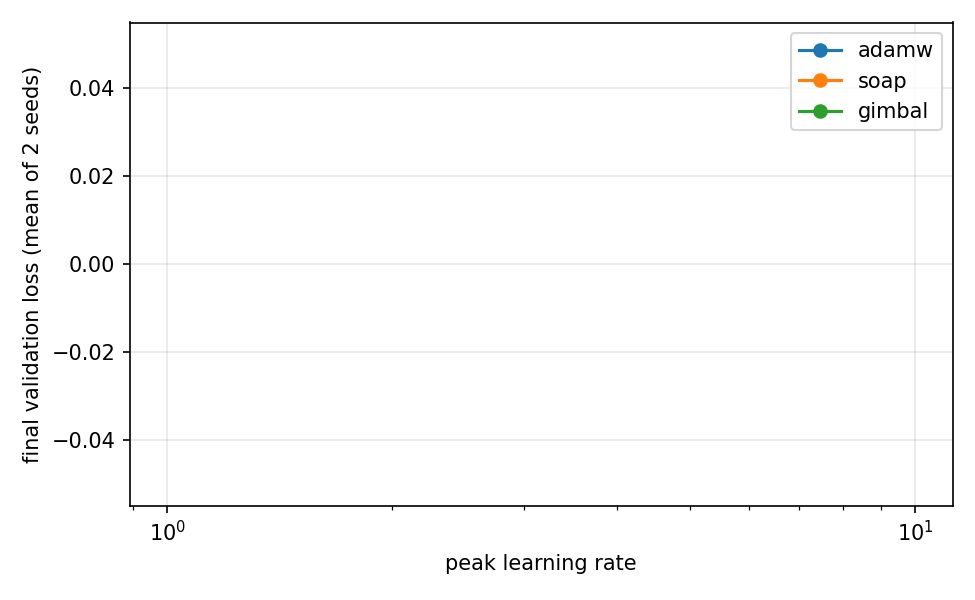
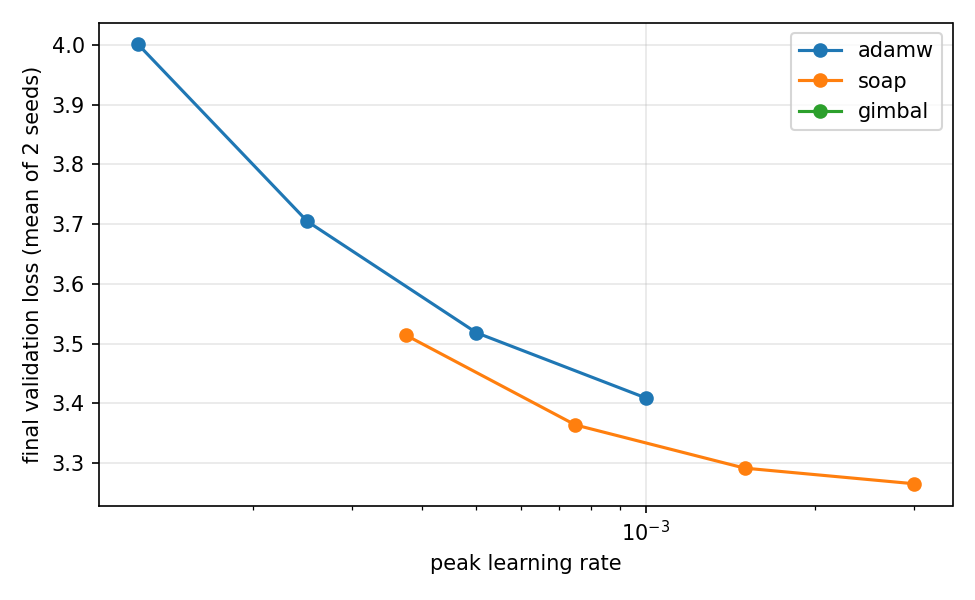
Tuning report lists Gimbal's pre-repair trials and each trial's code commit; status and research state after F-032/C-019

diff --git a/analysis/tuning_report.py b/analysis/tuning_report.py
@@ -32,13 +32,14 @@ OPTS = ("adamw", "soap", "gimbal")
 KNOB = {"adamw": ("b2", 0.95), "soap": ("shampoo_beta", 0.95), "gimbal": ("rot_rate", 0.05)}
 
 
-def trials() -> list[dict]:
+def trials(runs: pathlib.Path = RUNS) -> list[dict]:
     rows = []
-    for d in sorted(RUNS.iterdir()):
+    for d in sorted(runs.iterdir()):
         m = NAME.match(d.name)
         if not m or not (d / "final.json").exists():
             continue
         fin = json.loads((d / "final.json").read_text())
+        meta = json.loads((d / "config.json").read_text()) if (d / "config.json").exists() else {}
         opt, lr, key, val, seed = m.groups()
         rows.append(
             {
@@ -52,6 +53,7 @@ def trials() -> list[dict]:
                 "diverged": bool(fin.get("diverged")),
                 "val_loss": fin.get("val_loss"),
                 "seconds": fin.get("train_seconds"),
+                "commit": meta.get("git", "")[:7],
             }
         )
     return rows
@@ -59,9 +61,12 @@ def trials() -> list[dict]:
 
 def main() -> None:
     rows = trials()
+    pre = trials(RUNS / "pre_c019") if (RUNS / "pre_c019").exists() else []
     sel_path, snap_path = RUNS / "selection.json", RUNS / "SNAPSHOT"
     sel = json.loads(sel_path.read_text()) if sel_path.exists() else {}
     snap = snap_path.read_text().strip() if snap_path.exists() else "?"
+    snap_commit = pathlib.Path(snap) / "SNAPSHOT_COMMIT"
+    last = snap_commit.read_text().strip()[:7] if snap_commit.exists() else "?"
     lines = [
         "# Phase 06 tuning (generated by `analysis/tuning_report.py`)",
         "",
@@ -69,7 +74,11 @@ def main() -> None:
         "seeds 0 and 1, selection on the mean final loss over the full 20M-token "
         "validation split; Stage A learning-rate grid (7 points, factor 2, edge "
         "extensions offered to every optimizer), Stage C one secondary knob (3 values). "
-        f"Driver `scripts/tpu/tune.py`, one frozen code snapshot (`{snap}`).",
+        "Driver `scripts/tpu/tune.py`; frozen code snapshots: the trials before the F-032 "
+        "diagnosis ran from commit "
+        + ", ".join(sorted({x["commit"] for x in rows + pre if x["commit"] != last}))
+        + f", the later ones from `{snap}` (commit {last}); AdamW and SOAP code is identical in "
+        "both (formatting and docstrings only, checked on the syntax trees).",
         "",
         "## Budget (G6.1)",
         "",
@@ -148,13 +157,30 @@ def main() -> None:
             + ", ".join(f"{k}: {'edge' if v else 'interior'}" for k, v in knob_edge.items())
             + ".",
         ]
+    if pre:
+        lines += [
+            "",
+            "## Gimbal before C-019 (F-032; not used for selection)",
+            "",
+            "Gimbal's first trials ran with Adam's momentum beta_1 = 0.9 while SOAP had its "
+            "official 0.95; at learning rates >= 1.5e-3 they were unstable around the end of the "
+            "warm-up. After the diagnosis (F-032, `runs/diag/`) the 125M study uses SOAP's "
+            "beta_1 = 0.95 for Gimbal (C-019) and Gimbal was re-tuned with the full budget. "
+            "Mean final validation loss by learning rate (two seeds): "
+            + "; ".join(
+                f"{lr:.4g}: {np.mean([x['val_loss'] for x in pre if x['lr'] == lr]):.4f}"
+                for lr in sorted({x["lr"] for x in pre})
+                if sum(x["lr"] == lr for x in pre) == 2
+            )
+            + ".",
+        ]
     lines += [
         "",
         "## All trials",
         "",
         "| run | stage | optimizer | lr | knob | seed | final validation loss | diverged | "
-        "train seconds |",
-        "|---|---|---|---|---|---|---|---|---|",
+        "train seconds | commit |",
+        "|---|---|---|---|---|---|---|---|---|---|",
     ]
     for x in sorted(
         rows, key=lambda r: (r["optimizer"], r["stage"], r["lr"], r["value"], r["seed"])
@@ -163,7 +189,13 @@ def main() -> None:
         lines.append(
             f"| {x['run']} | {x['stage']} | {x['optimizer']} | {x['lr']:.4g} | "
             f"{x['knob']}={x['value']} | {x['seed']} | {vl} | {x['diverged']} | "
-            f"{x['seconds']:.0f} |"
+            f"{x['seconds']:.0f} | {x['commit']} |"
+        )
+    for x in sorted(pre, key=lambda r: (r["lr"], r["seed"])):
+        lines.append(
+            f"| pre_c019/{x['run']} | A (before C-019) | gimbal | {x['lr']:.4g} | beta_1=0.9 | "
+            f"{x['seed']} | {x['val_loss']:.4f} | {x['diverged']} | {x['seconds']:.0f} | "
+            f"{x['commit']} |"
         )
     OUT.write_text("\n".join(lines) + "\n")
     print("\n".join(lines[:40]))

diff --git a/research/ledger/tuning.md b/research/ledger/tuning.md
@@ -1,19 +1,19 @@
 # Phase 06 tuning (generated by `analysis/tuning_report.py`)
 
-Protocol after D-003: 125M model, 2,500 steps of 240 × 1024 tokens (614M tokens), seeds 0 and 1, selection on the mean final loss over the full 20M-token validation split; Stage A learning-rate grid (7 points, factor 2, edge extensions offered to every optimizer), Stage C one secondary knob (3 values). Driver `scripts/tpu/tune.py`, one frozen code snapshot (`/home/tasma/gimbal_snapshots/tuning`).
+Protocol after D-003: 125M model, 2,500 steps of 240 × 1024 tokens (614M tokens), seeds 0 and 1, selection on the mean final loss over the full 20M-token validation split; Stage A learning-rate grid (7 points, factor 2, edge extensions offered to every optimizer), Stage C one secondary knob (3 values). Driver `scripts/tpu/tune.py`; frozen code snapshots: the trials before the F-032 diagnosis ran from commit 5741a82, the later ones from `/home/tasma/gimbal_snapshots/tuning_c019` (commit 31b1833); AdamW and SOAP code is identical in both (formatting and docstrings only, checked on the syntax trees).
 
 ## Budget (G6.1)
 
 | optimizer | Stage A runs | Stage C runs | total | diverged | TPU hours (16 chips) |
 |---|---|---|---|---|---|
-| adamw | 1 | 0 | 1 | 0 | 0.13 h × 16 chips |
-| soap | 0 | 0 | 0 | 0 | 0.00 h × 16 chips |
+| adamw | 8 | 0 | 8 | 0 | 0.96 h × 16 chips |
+| soap | 8 | 0 | 8 | 0 | 1.16 h × 16 chips |
 | gimbal | 0 | 0 | 0 | 0 | 0.00 h × 16 chips |
 
 ## Stage A: mean final validation loss by learning rate (two seeds)
 
-* **adamw**: 0.000125: 3.9960 (1/2 seeds)
-* **soap**: 
+* **adamw**: 0.000125: 4.0009; 0.00025: 3.7047; 0.0005: 3.5183; 0.001: 3.4093
+* **soap**: 0.000375: 3.5138; 0.00075: 3.3639; 0.0015: 3.2916; 0.003: 3.2655
 * **gimbal**: 
 
 Figure: `analysis/results/tuning_lr_curves.png`.
@@ -24,8 +24,35 @@ Figure: `analysis/results/tuning_lr_curves.png`.
 * soap: pending
 * gimbal: pending
 
+## Gimbal before C-019 (F-032; not used for selection)
+
+Gimbal's first trials ran with Adam's momentum beta_1 = 0.9 while SOAP had its official 0.95; at learning rates >= 1.5e-3 they were unstable around the end of the warm-up. After the diagnosis (F-032, `runs/diag/`) the 125M study uses SOAP's beta_1 = 0.95 for Gimbal (C-019) and Gimbal was re-tuned with the full budget. Mean final validation loss by learning rate (two seeds): 0.000375: 3.5089; 0.00075: 3.3801; 0.0015: 3.3219; 0.003: 3.2913.
+
 ## All trials
 
-| run | stage | optimizer | lr | knob | seed | final validation loss | diverged | train seconds |
-|---|---|---|---|---|---|---|---|---|
-| adamw_lr0.000125_s0 | A | adamw | 0.000125 | b2=0.95 | 0 | 3.9960 | False | 467 |
+| run | stage | optimizer | lr | knob | seed | final validation loss | diverged | train seconds | commit |
+|---|---|---|---|---|---|---|---|---|---|
+| adamw_lr0.000125_s0 | A | adamw | 0.000125 | b2=0.95 | 0 | 3.9960 | False | 467 | 5741a82 |
+| adamw_lr0.000125_s1 | A | adamw | 0.000125 | b2=0.95 | 1 | 4.0058 | False | 467 | 5741a82 |
+| adamw_lr0.00025_s0 | A | adamw | 0.00025 | b2=0.95 | 0 | 3.7018 | False | 420 | 5741a82 |
+| adamw_lr0.00025_s1 | A | adamw | 0.00025 | b2=0.95 | 1 | 3.7076 | False | 420 | 5741a82 |
+| adamw_lr0.0005_s0 | A | adamw | 0.0005 | b2=0.95 | 0 | 3.5140 | False | 420 | 5741a82 |
+| adamw_lr0.0005_s1 | A | adamw | 0.0005 | b2=0.95 | 1 | 3.5225 | False | 422 | 5741a82 |
+| adamw_lr0.001_s0 | A | adamw | 0.001 | b2=0.95 | 0 | 3.4041 | False | 421 | 5741a82 |
+| adamw_lr0.001_s1 | A | adamw | 0.001 | b2=0.95 | 1 | 3.4144 | False | 422 | 5741a82 |
+| soap_lr0.000375_s0 | A | soap | 0.000375 | shampoo_beta=0.95 | 0 | 3.5110 | False | 701 | 5741a82 |
+| soap_lr0.000375_s1 | A | soap | 0.000375 | shampoo_beta=0.95 | 1 | 3.5167 | False | 688 | 5741a82 |
+| soap_lr0.00075_s0 | A | soap | 0.00075 | shampoo_beta=0.95 | 0 | 3.3626 | False | 461 | 5741a82 |
+| soap_lr0.00075_s1 | A | soap | 0.00075 | shampoo_beta=0.95 | 1 | 3.3653 | False | 462 | 5741a82 |
+| soap_lr0.0015_s0 | A | soap | 0.0015 | shampoo_beta=0.95 | 0 | 3.2925 | False | 461 | 5741a82 |
+| soap_lr0.0015_s1 | A | soap | 0.0015 | shampoo_beta=0.95 | 1 | 3.2907 | False | 463 | 5741a82 |
+| soap_lr0.003_s0 | A | soap | 0.003 | shampoo_beta=0.95 | 0 | 3.2641 | False | 463 | 5741a82 |
+| soap_lr0.003_s1 | A | soap | 0.003 | shampoo_beta=0.95 | 1 | 3.2669 | False | 462 | 5741a82 |
+| pre_c019/gimbal_lr0.000375_s0 | A (before C-019) | gimbal | 0.000375 | beta_1=0.9 | 0 | 3.5049 | False | 962 | 5741a82 |
+| pre_c019/gimbal_lr0.000375_s1 | A (before C-019) | gimbal | 0.000375 | beta_1=0.9 | 1 | 3.5129 | False | 503 | 5741a82 |
+| pre_c019/gimbal_lr0.00075_s0 | A (before C-019) | gimbal | 0.00075 | beta_1=0.9 | 0 | 3.3806 | False | 502 | 5741a82 |
+| pre_c019/gimbal_lr0.00075_s1 | A (before C-019) | gimbal | 0.00075 | beta_1=0.9 | 1 | 3.3797 | False | 504 | 5741a82 |
+| pre_c019/gimbal_lr0.0015_s0 | A (before C-019) | gimbal | 0.0015 | beta_1=0.9 | 0 | 3.3230 | False | 494 | 5741a82 |
+| pre_c019/gimbal_lr0.0015_s1 | A (before C-019) | gimbal | 0.0015 | beta_1=0.9 | 1 | 3.3209 | False | 503 | 5741a82 |
+| pre_c019/gimbal_lr0.003_s0 | A (before C-019) | gimbal | 0.003 | beta_1=0.9 | 0 | 3.2929 | False | 503 | 5741a82 |
+| pre_c019/gimbal_lr0.003_s1 | A (before C-019) | gimbal | 0.003 | beta_1=0.9 | 1 | 3.2897 | False | 503 | 5741a82 |

diff --git a/phases/STATUS.md b/phases/STATUS.md
@@ -7,7 +7,7 @@
 | 03 Reference implementations | **failed on G3.4 (premise), other gates pass** | 2026-10-06 | see git log ("Phase 03", "C-018") | G3.1 all tests pass (64 CPU, 16 TPU float32 + 13 CPU-only skipped); G3.2 `docs/optimizers.md`; G3.3 E2.5 reproduced in JAX within 0.1 seed SD (`experiments/phase3/results/e25_jax_gate.json`); G3.4 **fails**: median κ = 0.005 < 0.05 on real small-LM gradients, while the likelihood frame beats SOAP's pooled frame on held-out gradients in 48/48 matrices (`e26_report.md`, F-030); G3.5 passes after C-018 on fresh seeds 20–22 (lower than SOAP and AdamW on every seed, `g35_c018.md`); H1's kill criterion met at small scale (KL-SOAP better, SOAP real-time equal within noise) — D-006 | F-024–F-027, F-030 (premise, claim revised) |
 | 04 TPU kernels and distribution | **failed on G4.2 (documented wall-clock result), other gates pass** | 2026-10-06 | see git log ("Phases 04-05") | G4.1 JAX tests on the TPU (`benchmarks/tpu/results/tests_tpu.txt`); G4.2 **fails**: Gimbal 170.2 ms vs SOAP 167.0 ms steady state (+1.9%, C-017; `step_times.json`) after the repair order of the phase file (batching, amortization; lower-precision rotations cannot close it); G4.3 within 2× of the FLOP model for SOAP and Gimbal, documented reasons for QR and AdamW (`docs/performance.md`); G4.4 `docs/performance.md` generated from `benchmarks/tpu/` | — |
 | 05 Data and pipeline | **passed** | 2026-10-06 | see git log ("Phase 03 gates") | G5.1 smoke tests pass (`runs/smoke/smoke.json`; F-028, F-029), checksums `data/tokens_manifest.json`; G5.2 GPT-2 checkpoint scores 3.262 on our validation split vs 3.2924 published (build-nanogpt), AdamW 1,000 steps 3.80 (`runs/reference/`, `runs/smoke/adamw_1000/`) | — |
-| 06 Fair tuning | **in_progress** | 2026-10-06 | snapshot `gimbal_snapshots/tuning` | sweep running (`scripts/tpu/tune.py`, `runs/tuning/manifest.csv`) | — |
+| 06 Fair tuning | **in_progress** | 2026-10-07 | snapshots `gimbal_snapshots/tuning` (5741a82), `tuning_c019` (31b1833) | sweep running (`scripts/tpu/tune.py`, `runs/tuning/manifest.csv`); paused 02:50–03:37 UTC for the F-032 diagnosis (`runs/diag/`); C-019 (Gimbal uses SOAP's β₁ = 0.95 in the 125M study), Gimbal re-tuned with the full budget, pre-repair trials in `runs/tuning/pre_c019/` | F-032 (closed by C-019) |
 | 07 Competitive runs | pending | | | | |
 | 08 Analysis and decision | pending | | | | |
 | 09 Paper | pending | | | | |

diff --git a/research/state.md b/research/state.md
@@ -1,4 +1,4 @@
-# Research state — Gimbal — updated 2026-10-06 (Phases 03–06)
+# Research state — Gimbal — updated 2026-10-07 (Phases 03–06)
 
 ## Contract
 Target claim: Gimbal reaches lower validation loss than SOAP (and AdamW) at 125M parameters /
@@ -16,7 +16,11 @@ compares AdamW, SOAP f = 10 and Gimbal). Decision rule: Phase 08 (D-005 definiti
   real-time ties it: H1's kill criterion is met at small scale (D-006).
 - Phase 04: Gimbal's training step is 1.9% slower than SOAP's on the v4-32 (G4.2 fails).
 - Phase 05 passed (pipeline validated against GPT-2's published validation loss).
-- Phase 06 sweep running.
+- Phase 06 sweep running. F-032: with Adam's momentum β₁ = 0.9 Gimbal was unstable early at
+  peak learning rates ≥ 1.5e-3 and finished ~0.03 nats behind SOAP (official β₁ = 0.95); TPU
+  diagnostics showed SOAP with β₁ = 0.9 is unstable too, and moment transport or per-step moves do
+  not help. C-019: in the 125M study Gimbal uses SOAP's β₁ = 0.95 (the comparison is about the
+  frame); Gimbal re-tuned with the full budget. Phase 02 frame gates hold at β₁ = 0.95.
 
 ## Live hypotheses
 - H1 at 125M vs AdamW and SOAP (the confirmatory test). Reserves: H2 transport, H5 Lie momentum,
